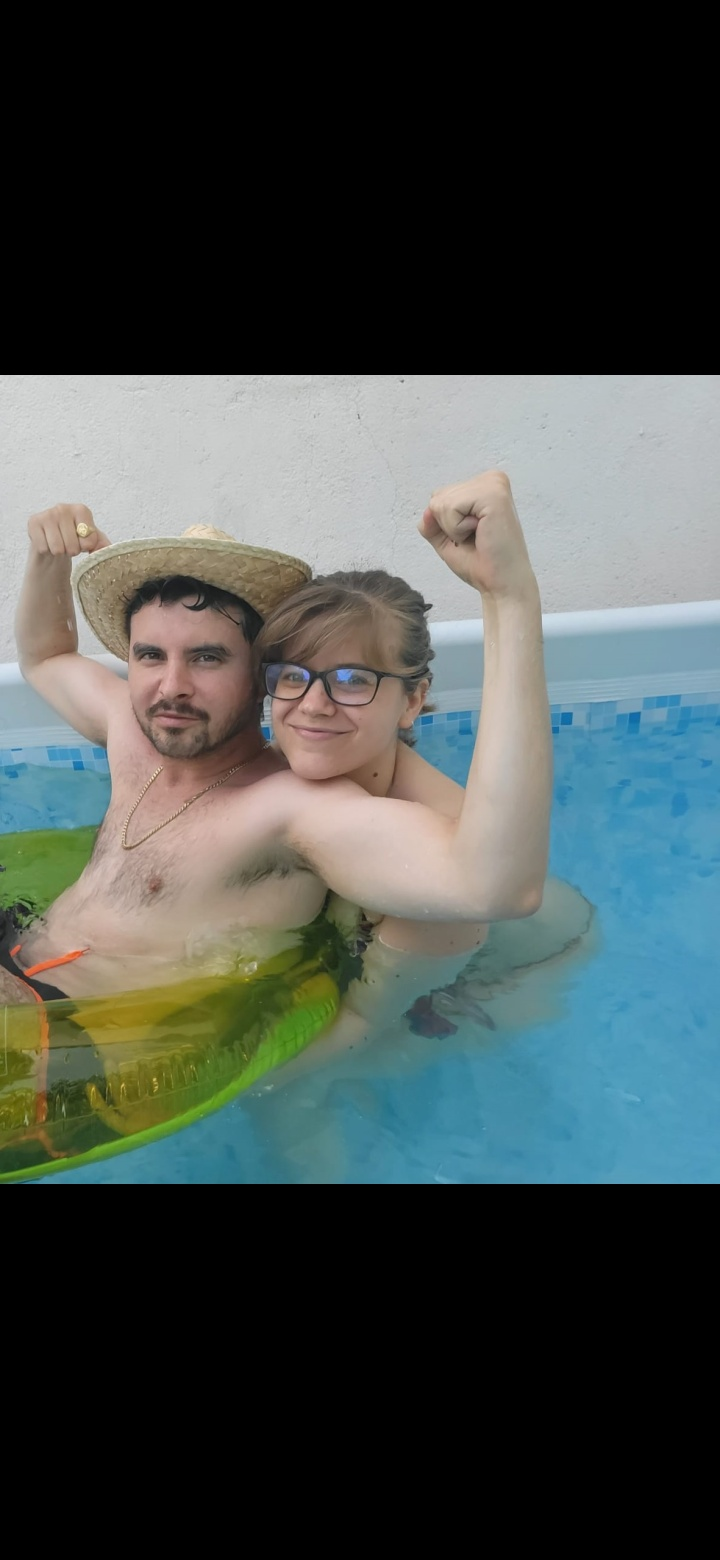
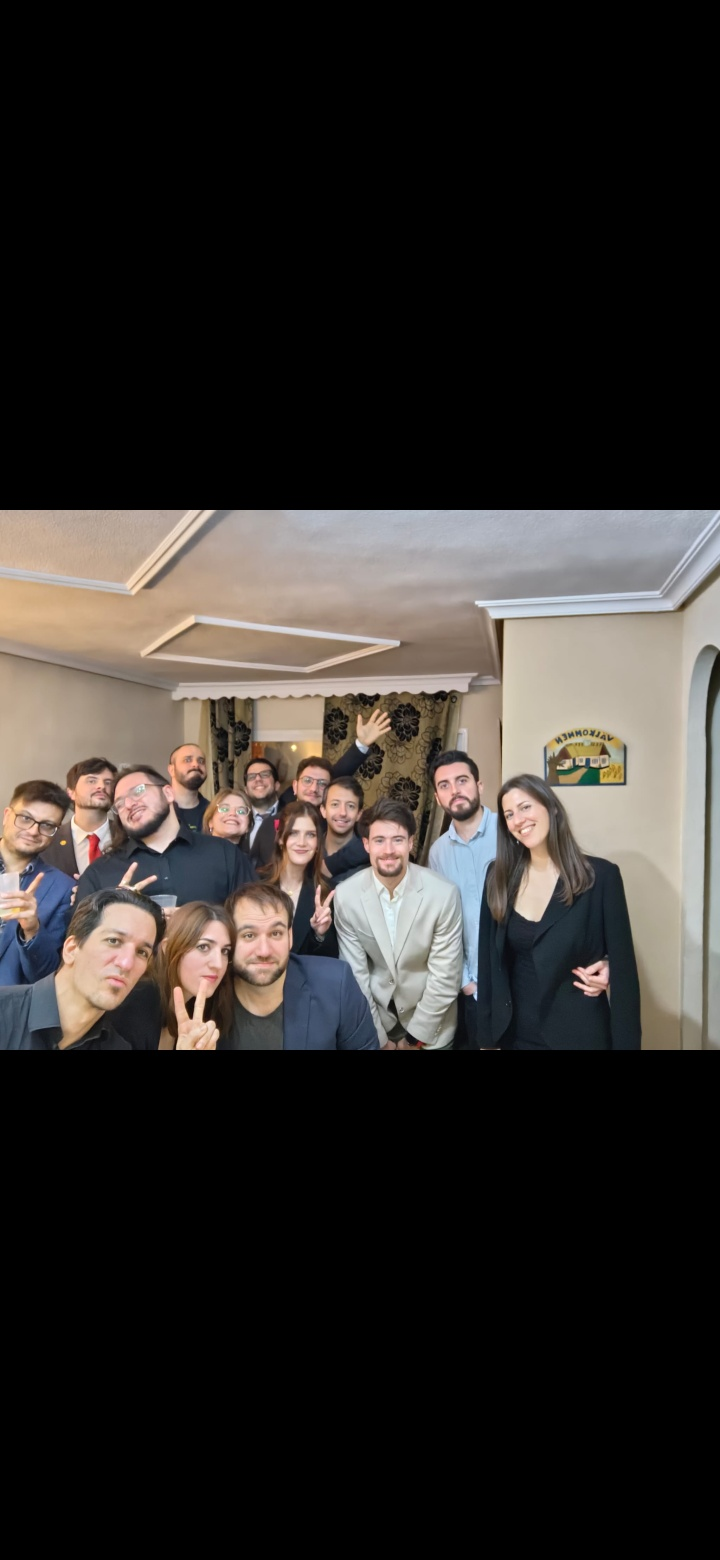
Ultimoscambiosss

diff --git a/index.html b/index.html
@@ -24,11 +24,7 @@
 
     <!-- Customized Bootstrap Stylesheet -->
     <link href="css/style.css" rel="stylesheet">
-<!--    <audio autoplay src="/music/streaming.mp3" controls>
-<p>If you are reading this, it is because your browser does not support the audio element.</p>
-</audio>
 </head>
--->
 <body data-spy="scroll" data-target=".navbar" data-offset="51">
     <!-- Navbar Start -->
     <nav class="navbar fixed-top shadow-sm navbar-expand-lg bg-dark navbar-dark py-3 py-lg-0 px-lg-5">
@@ -81,10 +77,10 @@
 </div>
 
 <script>
-const totalFotos = 24;
+const totalFotos = 27;
 let html = '';
 
-for (let i = 1; i <= totalFotos; i++) {
+for (let i = 1; i < totalFotos; i++) {
     html += `
         <div class="carousel-item position-relative ${i === 1 ? 'active' : ''}"
              style="height: 100vh; min-height: 400px;">
@@ -97,7 +93,7 @@ for (let i = 1; i <= totalFotos; i++) {
                     <h1 class="display-1 font-secondary text-white mt-n3 mb-md-4">
                         Jésica & Carlos
                     </h1>
-					<a href="#formulario-registro" class="nav-item nav-link d-inline-block p-0 text-decoration-none">
+					<a href="#formulario-registro" onclick="document.getElementById('musica').play();" class="nav-item nav-link d-inline-block p-0 text-decoration-none">
 						<div class="d-inline-block border-top border-bottom border-light py-3 px-4" style="margin-top: 525px;">
 							<h3 class="text-uppercase font-weight-normal text-white m-0"
 								style="letter-spacing: 2px;">
@@ -113,10 +109,10 @@ for (let i = 1; i <= totalFotos; i++) {
 
 document.getElementById('carousel-content').innerHTML = html;
 </script>
-<!--<audio controls autoplay>
+<audio controls id="musica" >
     <source src="music/streaming.mp3" type="audio/mpeg">
   Your browser does not support the audio element.
-</audio>-->
+</audio>
 <div class="google-form-container" id="formulario-registro">
     <iframe 
         src="https://docs.google.com/forms/d/e/1FAIpQLSf6mQ8sC1EjRXv6ejt_YSP0vvVKMA5rvPKnuRGZCblFN8NfBg/viewform?embedded=true" 
@@ -165,8 +161,8 @@ document.getElementById('carousel-content').innerHTML = html;
                 <div class="col-md-6 p-0 text-center text-md-right">
                     <div class="h-100 d-flex flex-column justify-content-center bg-secondary p-5">
                         <h3 class="mb-3">Carlos</h3>
-                        <p>Carlos es un malagueño muy hablador amante de los cacharros electrónicos. Ha conseguido juntar sus dos pasiones y ahora mismo se le permite dar la chapa a los alumnos de teleco de la universidad Politécnica de Madrid. Esta boda es la oportunidad perfecta de estar con él sin que pueda aburriros demasiado.</p>
-                        <h3 class="font-secondary font-weight-normal text-muted mb-3"><i class="fa fa-male text-primary pr-3"></i>Carlos</h3>
+                        <p>Carlos es un malagueño muy hablador amante de los cacharros electrónicos. Ha conseguido juntar sus dos pasiones y ahora mismo se le permite dar la chapa a los alumnos de teleco de la Universidad Politécnica de Madrid. Esta boda es la oportunidad perfecta de estar con él sin que pueda aburriros demasiado.</p>
+                       <!--  <h3 class="font-secondary font-weight-normal text-muted mb-3"><i class="fa fa-male text-primary pr-3"></i>Carlos</h3> -->
                     </div>
                 </div>
                 <div class="col-md-6 p-0" style="min-height: 400px;">
@@ -180,8 +176,8 @@ document.getElementById('carousel-content').innerHTML = html;
                 <div class="col-md-6 p-0 text-center text-md-left">
                     <div class="h-100 d-flex flex-column justify-content-center bg-secondary p-5">
                         <h3 class="mb-3">Jésica</h3>
-                        <p>Jésica es una malagueña de las chapas amante de los gatos y de los animales en general. Es una muchacha alegre con multitud de actividades: escritura, pintura, manualidades, decoración... También, y muy a su pesar, trabaja en Madrid, pero la boda es un día alegre y no vamos a hablar de eso :).</p>
-                        <h3 class="font-secondary font-weight-normal text-muted mb-3"><i class="fa fa-female text-primary pr-3"></i>Jésica</h3>
+                        <p>Jésica es una contable de Málaga extraviada en Madrid. Adicta a los videojuegos cozy donde nadie la estresa, pero en la discoteca se transforma y baila Bad Bunny como si hubiera tomado por la mañana café y por la tarde ron. No dudes en debatir con ella qué fruta del diablo de One Piece es la mejor.</p>
+                      <!--  <h3 class="font-secondary font-weight-normal text-muted mb-3"><i class="fa fa-female text-primary pr-3"></i>Jésica</h3>-->
                     </div>
                 </div>
             </div>
@@ -207,7 +203,7 @@ document.getElementById('carousel-content').innerHTML = html;
                         <div class="h-100 d-flex flex-column justify-content-center bg-secondary p-4 ml-md-3">
                             <h4 class="mb-2">Hace mucho mucho tiempo...</h4>
                             <p class="text-uppercase mb-2">2007</p>
-                            <p class="m-0">Jésica y Carlos se conocen desde hace muchos años, allá por 2007 solían quedar muchos domingos para ver el último superviviente en casa de Carlos.</p>
+                            <p class="m-0">Nos conocemos desde hace muchos años. Allá por 2007 solíamos quedar muchos domingos para ver El Ultimo Superviviente en casa de Carlos.</p>
                         </div>
                     </div>
                 </div>
@@ -216,7 +212,7 @@ document.getElementById('carousel-content').innerHTML = html;
                         <div class="h-100 d-flex flex-column justify-content-center bg-secondary p-4 mr-md-3">
                             <h4 class="mb-2">Año nuevo, vida nueva</h4>
                             <p class="text-uppercase mb-2">01 Enero 2019</p>
-                            <p class="m-0">Ya en 2019 empezamos el año siendo algo más que amigos, yo volví a Madrid después de esas vacaciones y ella quedó en Málaga...</p>
+                            <p class="m-0">Ya en 2019 empezamos el año siendo algo más que amigos, Carlos volvió a Madrid después de esas vacaciones y Jésica tuvo que quedarse en Málaga...</p>
                         </div>
                     </div>
                     <div class="col-md-6 text-center text-md-left">
@@ -231,7 +227,7 @@ document.getElementById('carousel-content').innerHTML = html;
                         <div class="h-100 d-flex flex-column justify-content-center bg-secondary p-4 ml-md-3">
                             <h4 class="mb-2">Vida en Madrid</h4>
                             <p class="text-uppercase mb-2">2019</p>
-                            <p class="m-0">En Marzo de 2019 nos fuimos a Asturias por semana santa, y, al volver, Jésica se encontró con un trabajo en Madrid. Desde que vino, hemos estado viviendo juntos en: Cuesta San Vicente, Arturo Soria (COVID mediante), Separados Málaga-Madrid, Barrio del Pilar y Villalba... </p>
+                            <p class="m-0">En marzo de 2019 nos fuimos a Asturias por Semana Santa, y, al volver, Jésica se encontró con un trabajo en Madrid. Desde que vino, hemos estado viviendo juntos en: Cuesta San Vicente, Arturo Soria (COVID mediante), separados :(, Málaga-Madrid, Barrio del Pilar y Villalba... </p>
                         </div>
                     </div>
                 </div>
@@ -240,7 +236,7 @@ document.getElementById('carousel-content').innerHTML = html;
                         <div class="h-100 d-flex flex-column justify-content-center bg-secondary p-4 mr-md-3">
                             <h4 class="mb-2">Propuesta</h4>
                             <p class="text-uppercase mb-2"></p>
-                            <p class="m-0">El 20 de agosto de 2025 se produjo el milagro, pudimos escaparnos a Ronda. Frente al imponente paisaje de la noche sobre garganta del tajo, algún trovador itinerante comenzó a endulzar la noche con la melodía de una guitarra. Fue entonces, cuando tras fundirse en un abrazo frente a la garganta y junto a la música, que Carlos posó su rodilla en el suelo con un anillo sostenido a la altura de su pecho. El desenlace de dicha historia es evidente dada la existencia de esta web :)</p>
+                            <p class="m-0">El 20 de agosto de 2025 se produjo el milagro: pudimos escaparnos a Ronda. Frente al imponente paisaje nocturno sobre del Tajo, un trovador itinerante comenzó a endulzar la noche con la melodía de una guitarra. Fue entonces, cuando tras fundirse en un abrazo frente a la garganta y junto a la música, que Carlos posó su rodilla en el suelo con un anillo sostenido a la altura de su pecho. El desenlace de dicha historia es evidente dada la existencia de esta web :)</p>
                         </div>
                     </div>
                     <div class="col-md-6 text-center text-md-left">
@@ -287,7 +283,7 @@ document.getElementById('carousel-content').innerHTML = html;
                         <h4 class="mb-3">Horario Tentativo</h4>
                         <p class="mb-0">12:30 Ceremonia</p>
                         <p class="mb-0">13:30 Cóctel cena etc etc</p>
-                        <p class="mb-0">15:30 Comida</p>
+                        <p class="mb-0">15:30 Almuerzo</p>
                         <p class="mb-0">17:30 !!!FIESTA!!!</p>
                     </div>
                 </div>
@@ -297,7 +293,7 @@ document.getElementById('carousel-content').innerHTML = html;
     <!-- Event End -->
 
 
-    <!-- Friends & Family Start -->
+    <!-- Friends & Family Start 
     <div class="container-fluid py-5" id="family">
         <div class="container pt-5 pb-3">
             <div class="section-title position-relative text-center">
@@ -381,6 +377,82 @@ document.getElementById('carousel-content').innerHTML = html;
     </div>
     <!-- Friends & Family End -->
     <!-- Gallery Start -->
+	
+	<!-- Friends & Family Start -->
+<div class="container-fluid py-5" id="family">
+    <div class="container pt-5 pb-3">
+        <div class="section-title position-relative text-center">
+            <h6 class="text-uppercase text-primary mb-3" style="letter-spacing: 3px;">Familia</h6>
+            <h1 class="font-secondary display-4">Personalidades Destacadas</h1>
+            <i class="far fa-heart text-dark"></i>
+        </div>
+
+        <div class="row portfolio-container">
+
+            <div class="col-lg-4 col-md-6 mb-4 portfolio-item">
+                <div class="position-relative mb-2">
+                    <img class="img-fluid w-100" src="img/Joseluirs.jpeg" alt="">
+                    <div class="bg-secondary text-center p-4">
+                        <h4 class="mb-3">José Luis</h4>
+                        <p class="text-uppercase">Padre del novio</p>
+                    </div>
+                </div>
+            </div>
+
+            <div class="col-lg-4 col-md-6 mb-4 portfolio-item">
+                <div class="position-relative mb-2">
+                    <img class="img-fluid w-100" src="img/felix.jpg" alt="">
+                    <div class="bg-secondary text-center p-4">
+                        <h4 class="mb-3">Félix</h4>
+                        <p class="text-uppercase">Padre de la novia</p>
+                    </div>
+                </div>
+            </div>
+
+            <div class="col-lg-4 col-md-6 mb-4 portfolio-item">
+                <div class="position-relative mb-2">
+                    <img class="img-fluid w-100" src="img/geles.jpg" alt="">
+                    <div class="bg-secondary text-center p-4">
+                        <h4 class="mb-3">Geles</h4>
+                        <p class="text-uppercase">Madre de la novia</p>
+                    </div>
+                </div>
+            </div>
+
+            <div class="col-lg-4 col-md-6 mb-4 portfolio-item">
+                <div class="position-relative mb-2">
+                    <img class="img-fluid w-100" src="img/mamacar.jpeg" alt="">
+                    <div class="bg-secondary text-center p-4">
+                        <h4 class="mb-3">Alicia del Carmen</h4>
+                        <p class="text-uppercase">Madre del novio</p>
+                    </div>
+                </div>
+            </div>
+
+            <div class="col-lg-4 col-md-6 mb-4 portfolio-item">
+                <div class="position-relative mb-2">
+                    <img class="img-fluid w-100" src="img/vistrol.jpeg" alt="">
+                    <div class="bg-secondary text-center p-4">
+                        <h4 class="mb-3">Víctor</h4>
+                        <p class="text-uppercase">Hermano del novio</p>
+                    </div>
+                </div>
+            </div>
+
+            <div class="col-lg-4 col-md-6 mb-4 portfolio-item">
+                <div class="position-relative mb-2">
+                    <img class="img-fluid w-100" src="img/gallery.jpg" alt="">
+                    <div class="bg-secondary text-center p-4">
+                        <h4 class="mb-3">Képler</h4>
+                        <p class="text-uppercase">El diablo</p>
+                    </div>
+                </div>
+            </div>
+
+        </div>
+    </div>
+</div>
+<!-- Friends & Family End -->
     <div class="container-fluid bg-gallery" id="gallery" style="padding: 120px 0; margin: 90px 0;">
         <div class="section-title position-relative text-center" style="margin-bottom: 120px;">
             <h6 class="text-uppercase text-primary mb-3" style="letter-spacing: 3px;">Galería</h6>
@@ -395,7 +467,7 @@ document.getElementById('carousel-content').innerHTML = html;
 <script>
 html = '';
 
-for (let i = 1; i <= totalFotos; i++) {
+for (let i = 1; i < totalFotos; i++) {
     html += `
         <div class="gallery-item">
                 <img class="img-fluid w-100" src="img/carousel-${i}.jpg" alt="">
